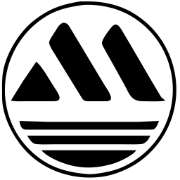
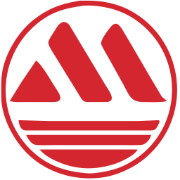
fix: site web manifest
* replaced image files
* added 144x144 to manifest file

diff --git a/pages/_document.tsx b/pages/_document.tsx
@@ -9,6 +9,7 @@ export default function Document() {
         <link rel="apple-touch-icon" sizes="180x180" href="/apple-touch-icon.png" />
         <link rel="icon" type="image/png" sizes="32x32" href="/favicon-32x32.png" />
         <link rel="icon" type="image/png" sizes="16x16" href="/favicon-16x16.png" />
+        <link rel="icon" type="image/x-icon" href="/favicon.ico" />
         <link rel="manifest" href="/site.webmanifest" />
         <link rel="preload" href="/images/motif_footer_white.svg" as="image" type="image/svg+xml" />
         <link rel="preload" href="/fonts/conthrax-sb.ttf" as="font" type="font/ttf" crossOrigin="" />
